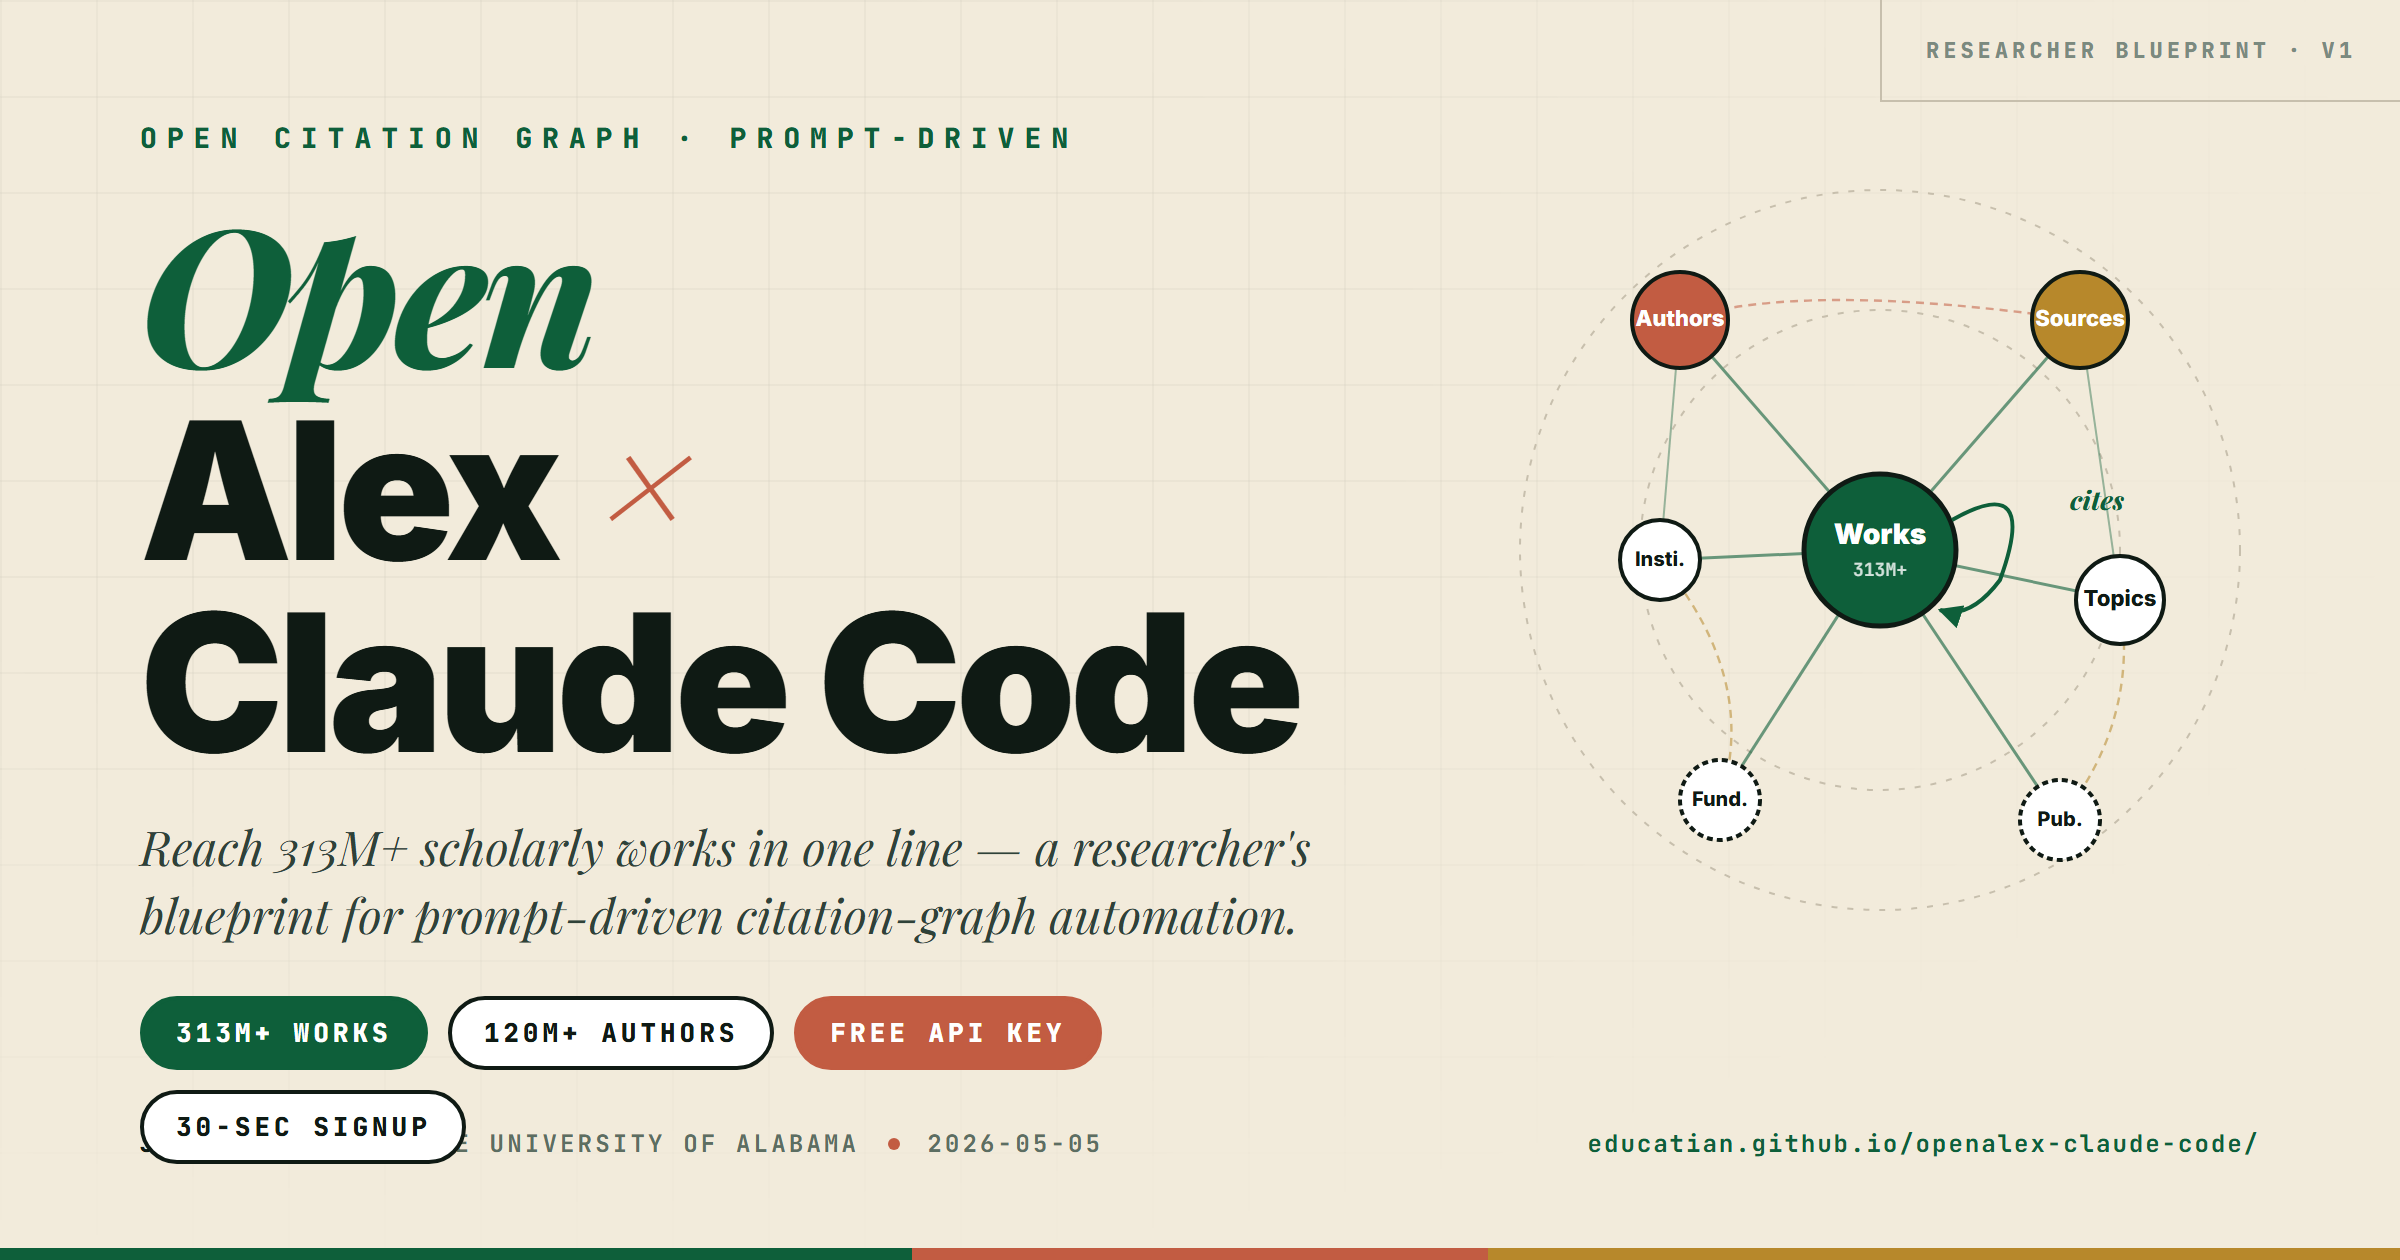
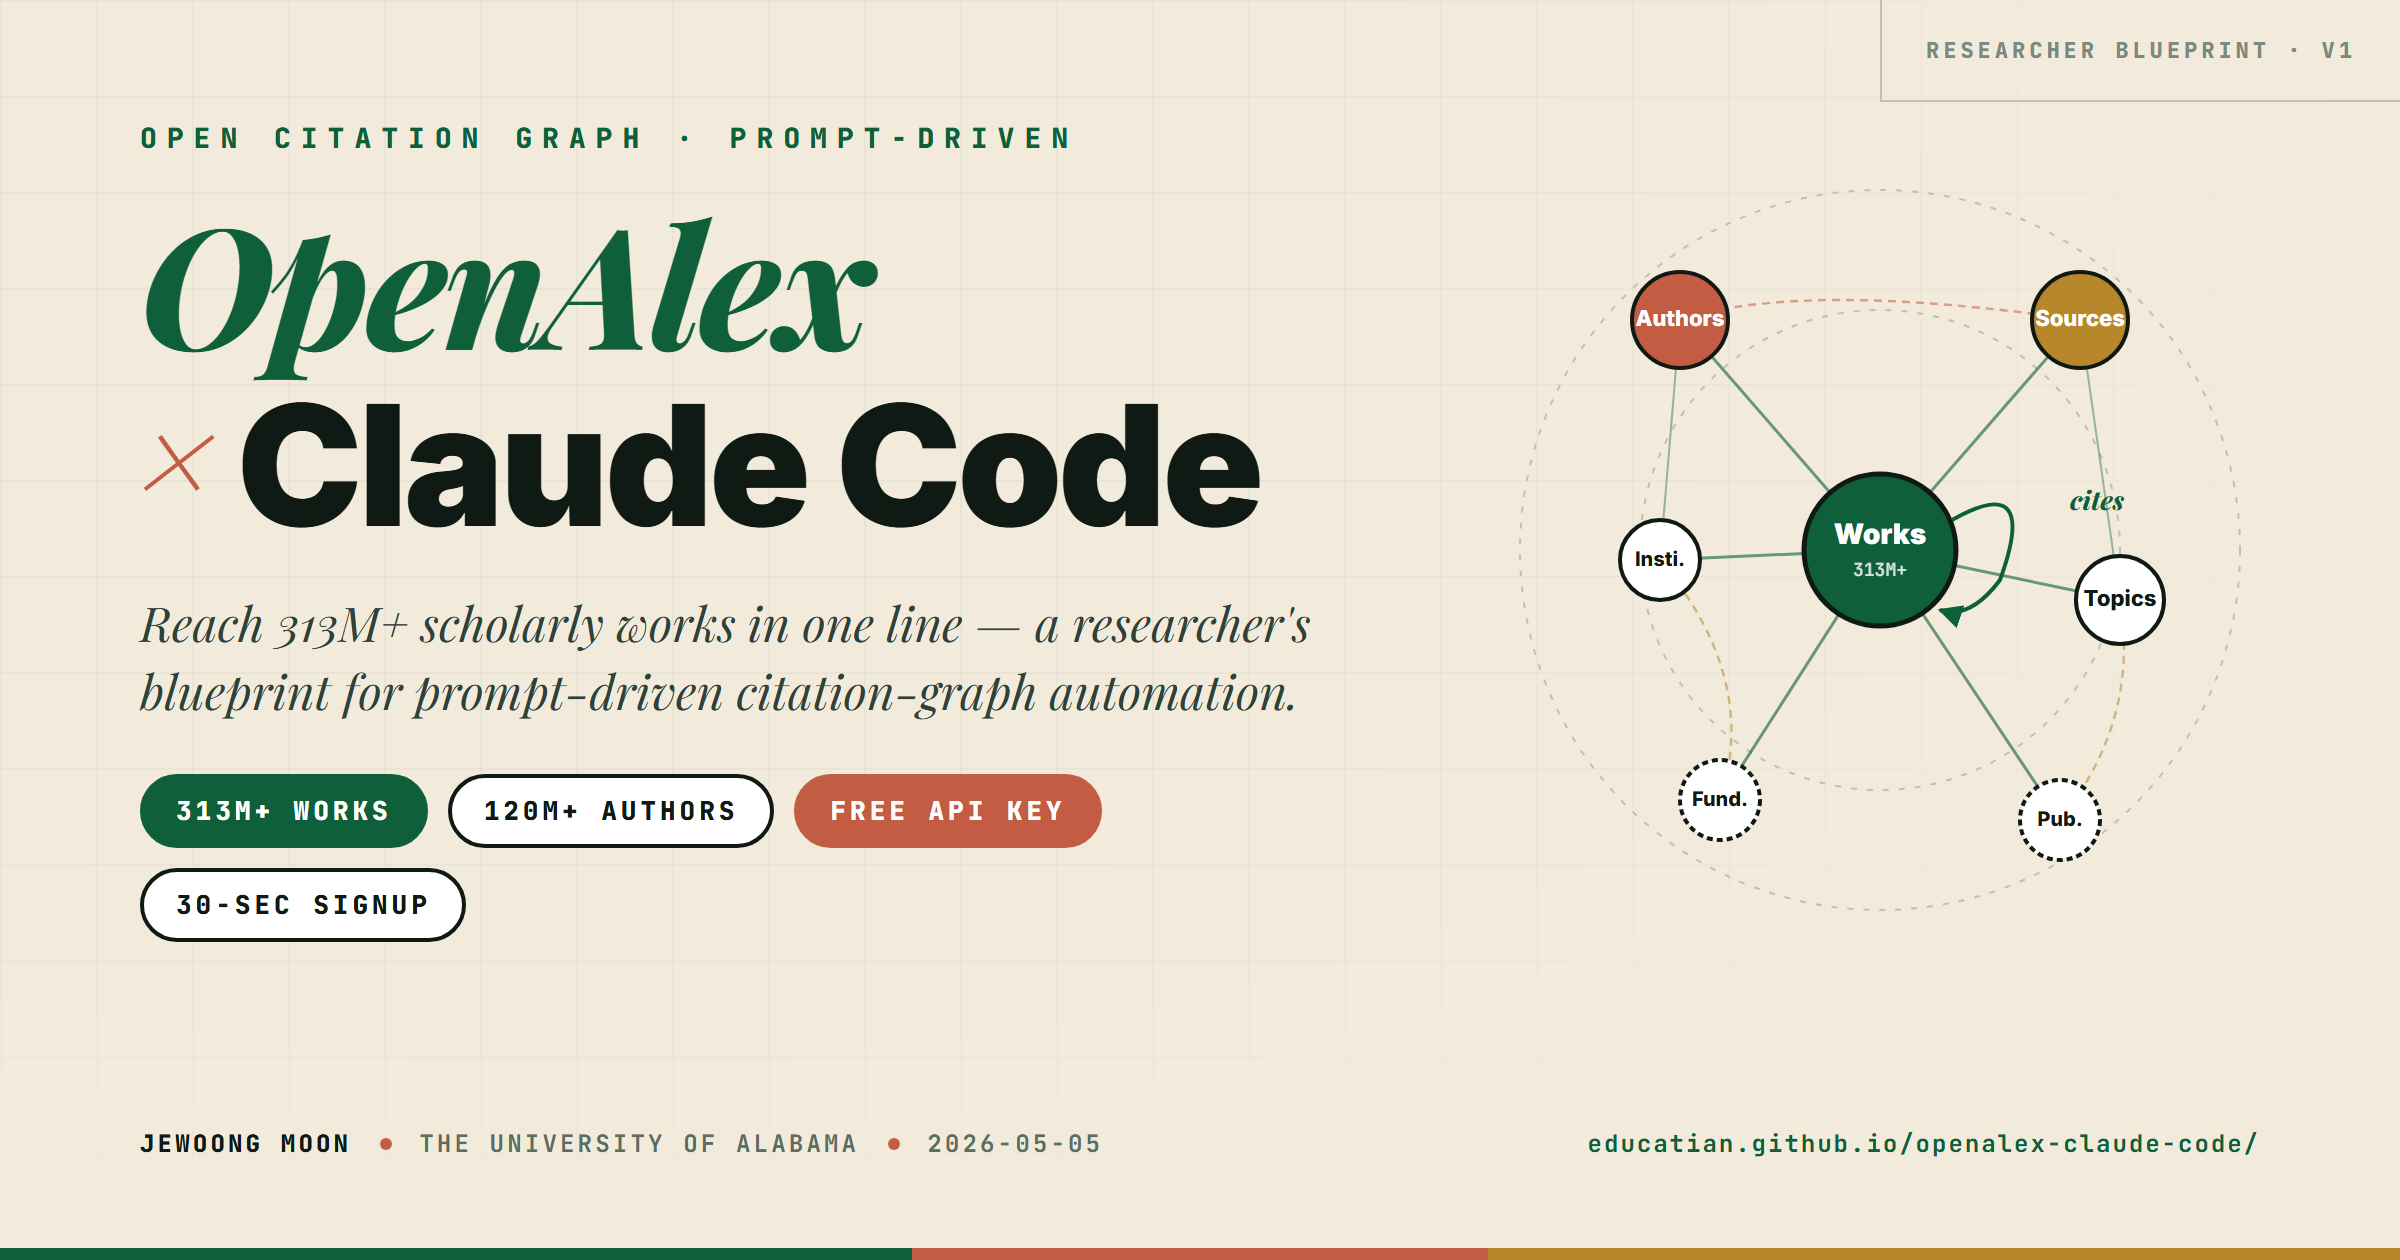
openalex-claude-code: unify "OpenAlex" wordmark in OG thumbnail
Previously rendered "Open" and "Alex" in two different fonts/colors,
making one product name read as two unrelated concepts. Lock both
halves of OpenAlex into the same emerald italic Playfair so it reads
as a single wordmark, then keep "× Claude Code" on the second line as
the partner product. Drop H1 from 96px to 84px with white-space:nowrap
so each product fits cleanly on its own line.

Changed region(s): [[0.0312, 0.1548, 0.5625, 0.9286]]

diff --git a/openalex-claude-code/thumbnails/hero.html b/openalex-claude-code/thumbnails/hero.html
@@ -44,20 +44,21 @@ html,body{
 }
 h1{
   font-family:'Inter',sans-serif;
-  font-size:96px;font-weight:900;line-height:1;letter-spacing:-.03em;
-  color:var(--ink);margin:0 0 14px;
+  font-size:84px;font-weight:900;line-height:1.05;letter-spacing:-.03em;
+  color:var(--ink);margin:0 0 14px;white-space:nowrap;
 }
-h1 .open{
+h1 .openalex{
   font-family:'Playfair Display',serif;font-style:italic;font-weight:800;
-  color:var(--emerald);
+  color:var(--emerald);letter-spacing:-.02em;
 }
 h1 .x{
   font-family:'Playfair Display',serif;font-style:italic;font-weight:400;
-  color:var(--clay);font-size:84px;
-  display:inline-block;transform:translateY(-6px);margin:0 8px;
+  color:var(--clay);font-size:72px;
+  display:inline-block;transform:translateY(-6px);margin:0 14px 0 0;
 }
 h1 .claude{
-  color:var(--ink);
+  font-family:'Inter',sans-serif;font-weight:900;
+  color:var(--ink);letter-spacing:-.025em;
 }
 .tag{
   display:inline-block;
@@ -122,9 +123,8 @@ h1 .claude{
     <div>
       <div class="kicker">Open citation graph · Prompt-driven</div>
       <h1>
-        <span class="open">Open</span><br>
-        <span class="claude">Alex</span> <span class="x">×</span><br>
-        <span class="claude">Claude Code</span>
+        <span class="openalex">OpenAlex</span><br>
+        <span class="x">×</span><span class="claude">Claude Code</span>
       </h1>
       <p class="lede">
         Reach 313M+ scholarly works in one line — a researcher's blueprint for prompt-driven citation-graph automation.